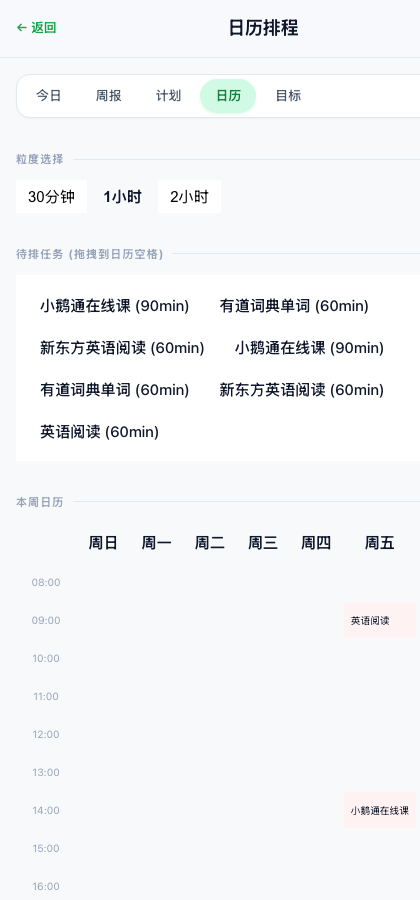
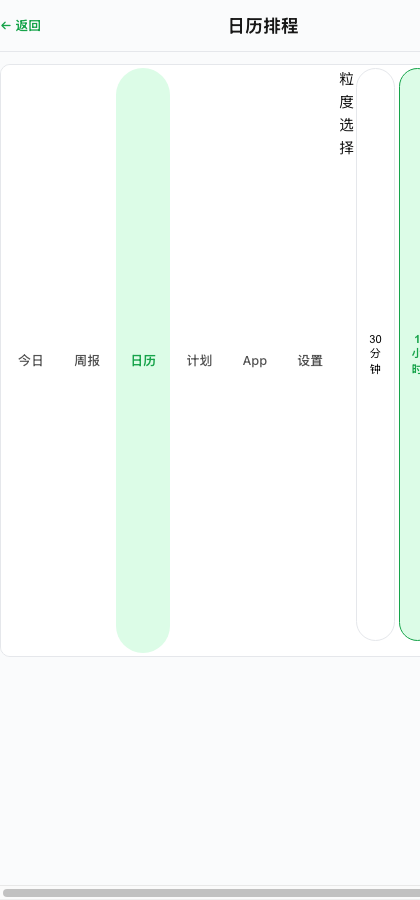
docs: update screenshots with tree dashboard + dead tree comparison

diff --git a/README.md b/README.md
@@ -38,17 +38,17 @@
 
 <div align="center">
 
-| 今日仪表盘 | 日历拖拽排程 |
+| 养树仪表盘 (2/3 完成) | 枯萎的树 (0 完成) |
 |:--:|:--:|
-| ![dashboard](docs/screenshots/1-dashboard.png) | ![calendar](docs/screenshots/2-calendar.png) |
+| ![dashboard](docs/screenshots/1-dashboard.png) | ![dead-tree](docs/screenshots/7-dead-tree.png) |
 
-| App 权限管理 | 学习目标追踪 |
+| 日历拖拽排程 | App 权限管理 |
 |:--:|:--:|
-| ![apps](docs/screenshots/3-apps.png) | ![goals](docs/screenshots/4-goals.png) |
+| ![calendar](docs/screenshots/2-calendar.png) | ![apps](docs/screenshots/3-apps.png) |
 
 | 系统设置 | 周报统计 |
 |:--:|:--:|
-| ![settings](docs/screenshots/5-settings.png) | ![weekly](docs/screenshots/6-weekly.png) |
+| ![settings](docs/screenshots/4-settings.png) | ![weekly](docs/screenshots/6-weekly.png) |
 
 </div>
 
